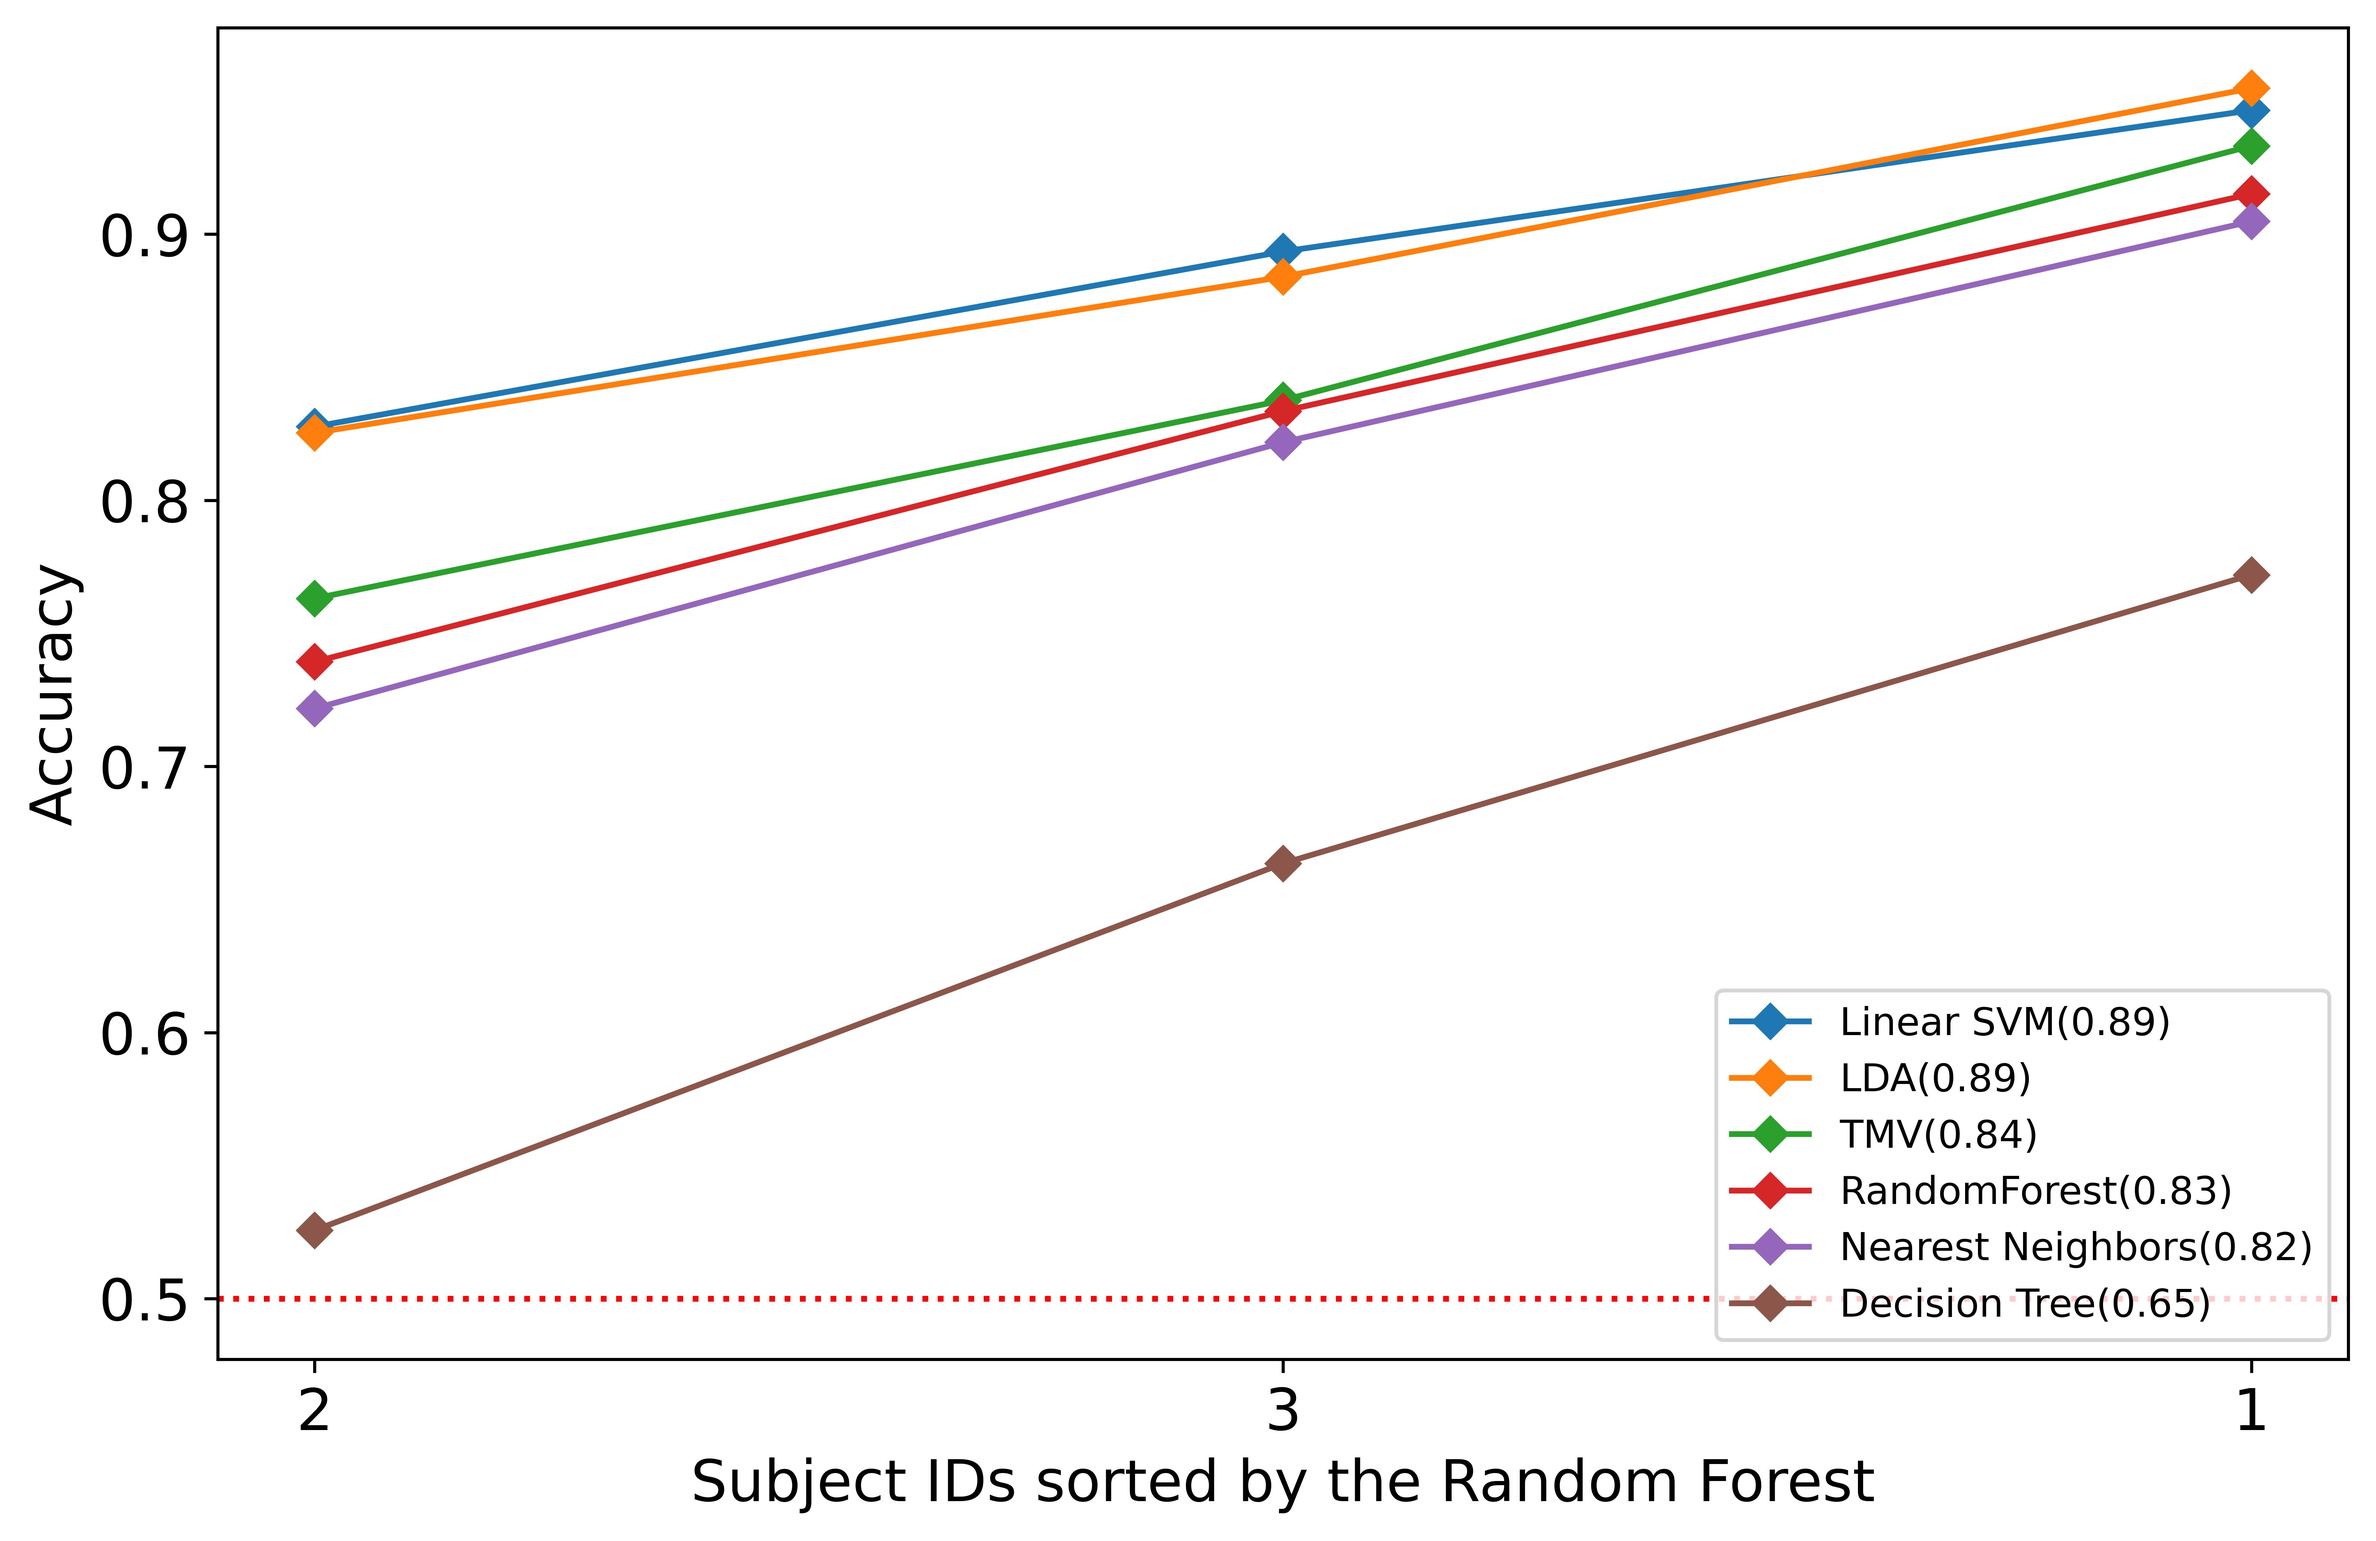
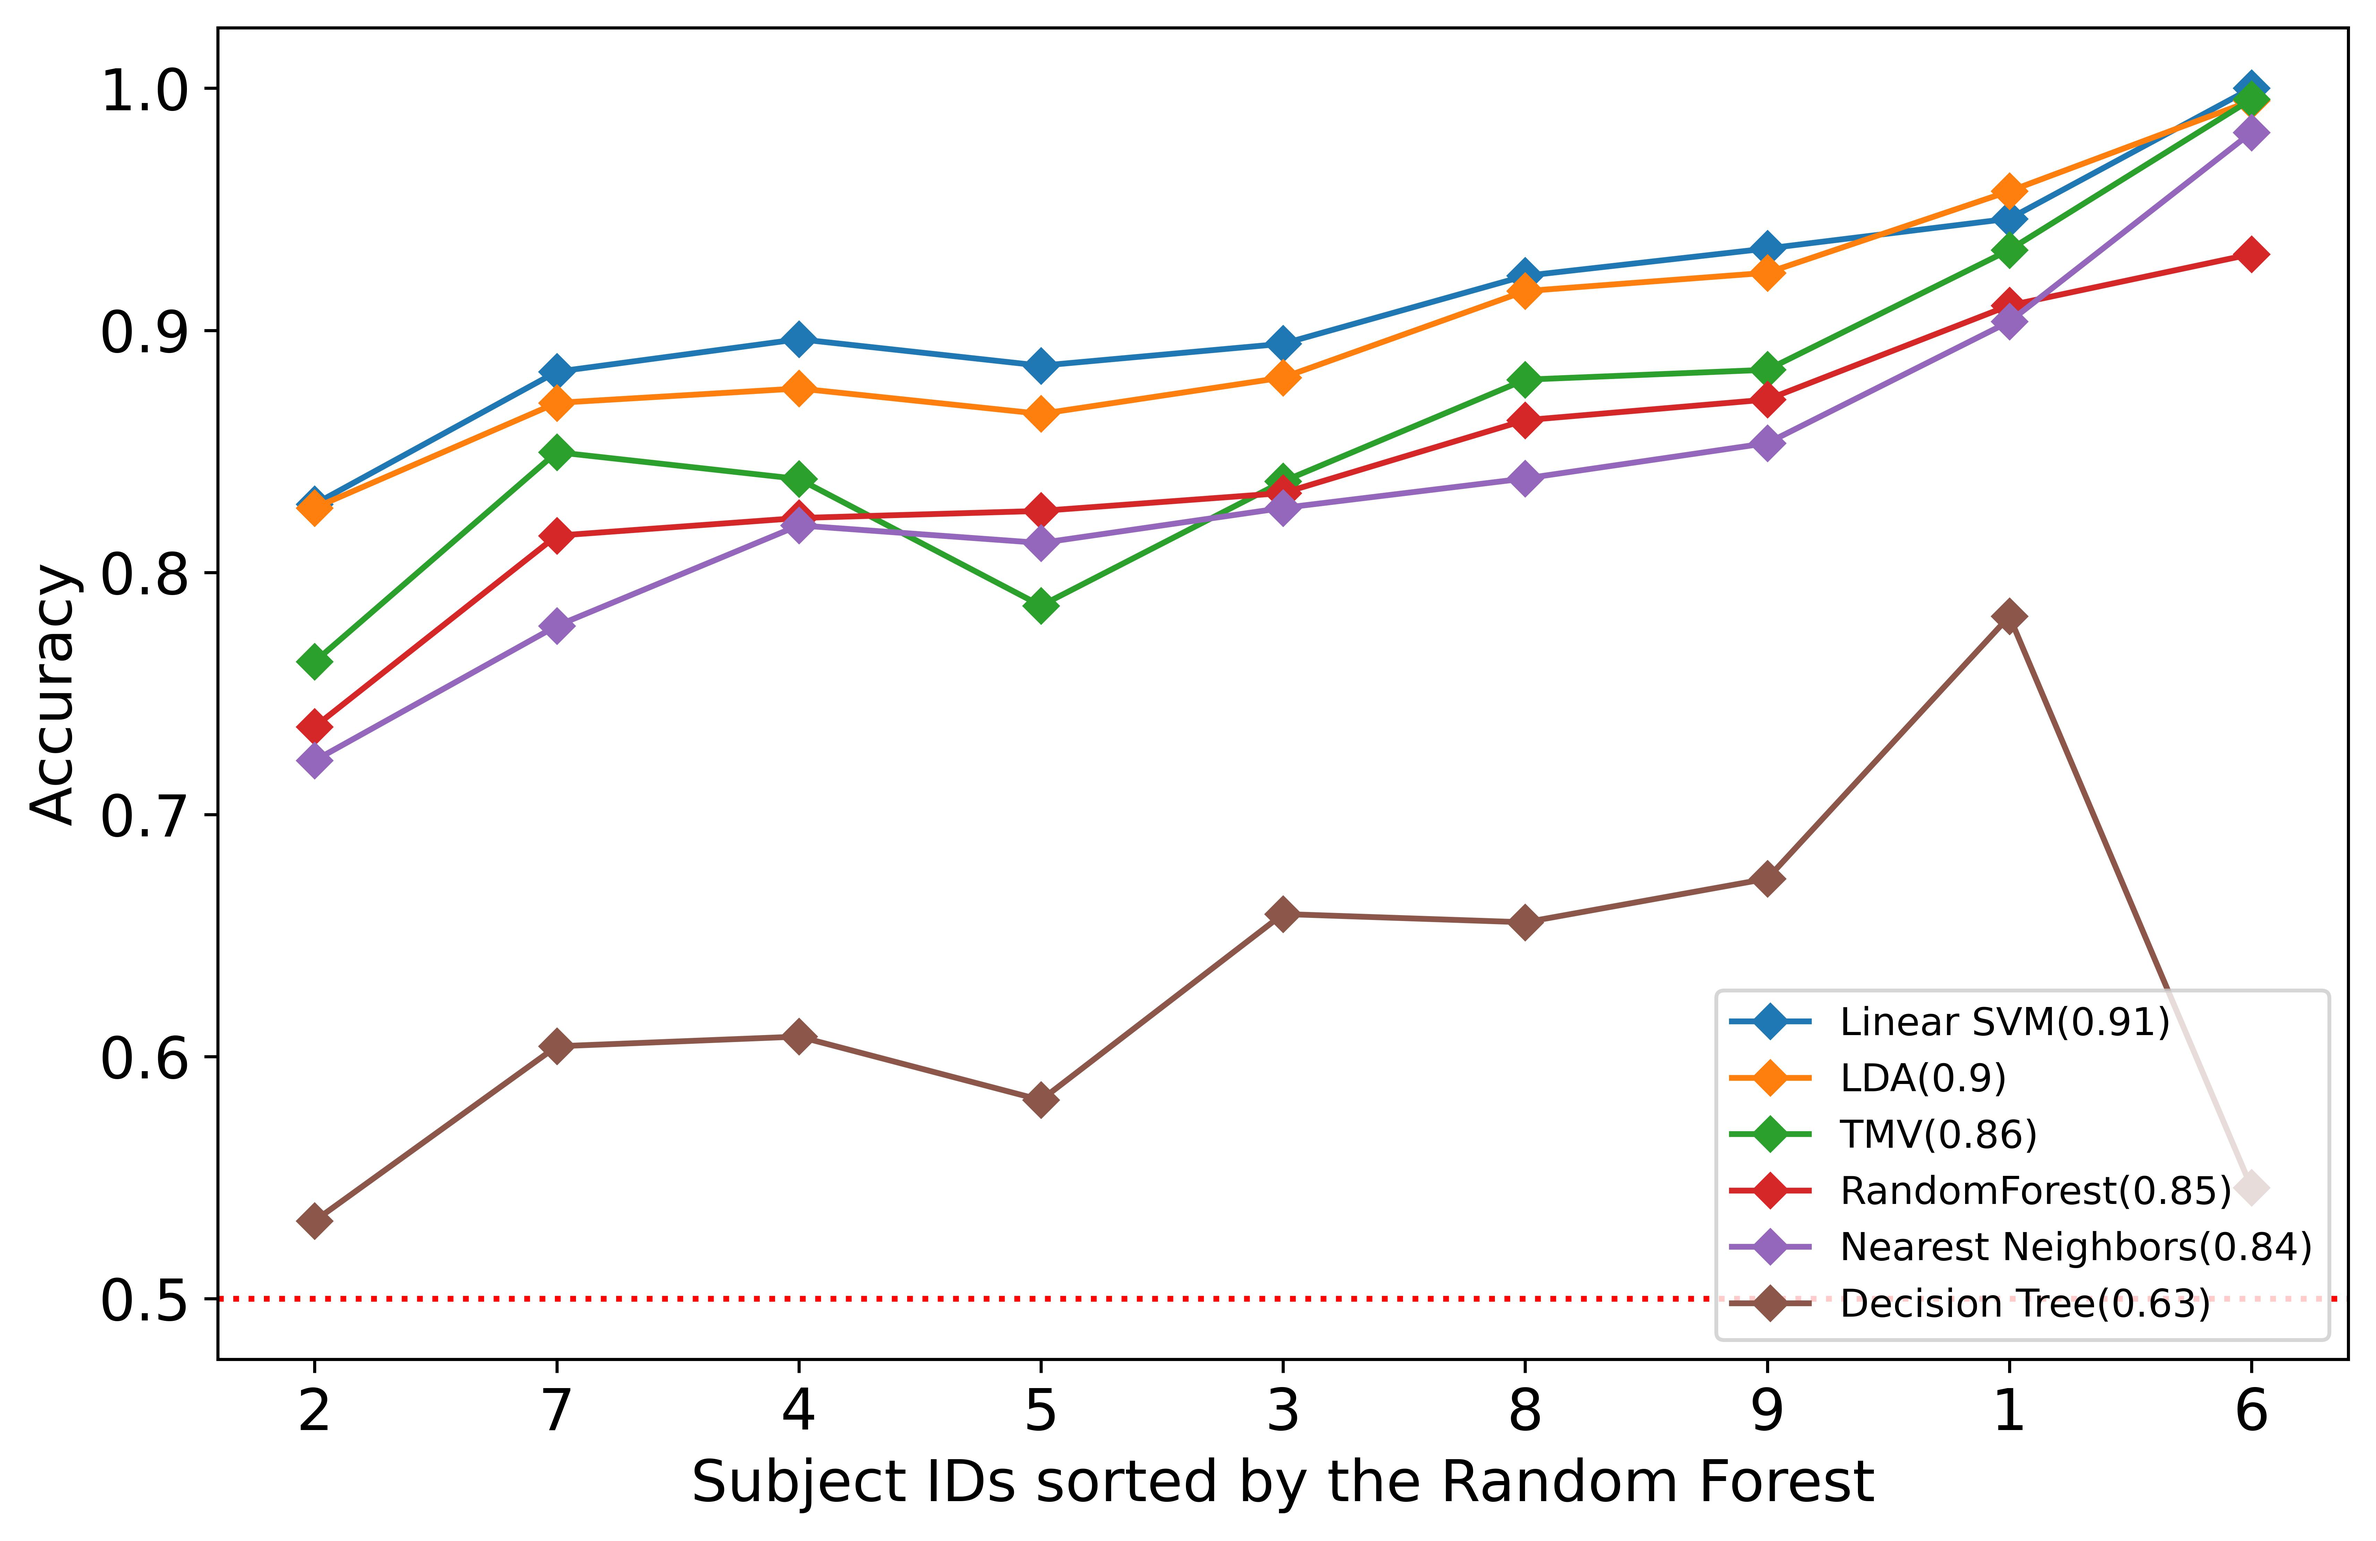
added new results for BCI competition datasets

diff --git a/TMV_BCI_Competition.py b/TMV_BCI_Competition.py
@@ -82,7 +82,7 @@ def calculate_accuracy(y_one : List, y_two : List) -> float:
 
 
 scoring = "accuracy"
-total_subjects = 3
+total_subjects = 9
 
 score_dict = {}
 time_record = {}
@@ -132,9 +132,10 @@ for subject_id in range(1, total_subjects + 1):
         time_elapsed = time_end - time_start
         time_record[subject_id][name] = time_elapsed
 
-        tp_data = {"Average_Accuracy": scores.mean(), "Avg runtime(s)": time_elapsed}
-        df_tp = pd.DataFrame(tp_data, index=[name])
-        df_tp.to_csv("output/" + data_source + "/subject "+str(subject_id)+"_"+name+"_accuracy_time.csv")
+        # Uncomment the following lines if you want to see results for each subject's pre-specified ML algorithms
+        # tp_data = {"Average_Accuracy": scores.mean(), "Avg runtime(s)": time_elapsed}
+        # df_tp = pd.DataFrame(tp_data, index=[name])
+        # df_tp.to_csv("output/" + data_source + "/subject "+str(subject_id)+"_"+name+"_accuracy_time.csv")
 
         print("The average score of " + name + " is", scores.mean(), "with std of", scores.std())
         print("The time spent to run " + name + " is", time_elapsed)
@@ -169,7 +170,7 @@ for subject_id in range(1, total_subjects + 1):
     score_dict[subject_id]["TMV"] = (tmv_accuracy)
     time_record[subject_id]["TMV"] = time_tmv_end - time_tmv_start
 
-    # Uncomment the following line if you want to see results for each subjects
+    # Uncomment the following lines if you want to see results for each subject's TMV result
     # tp_data = {"Average_Accuracy": tmv_accuracy, "Avg runtime(s)": time_tmv_end - time_tmv_start}
     # df_tp = pd.DataFrame(tp_data, index=["TMV"])
     # df_tp.to_csv("output/" + data_source + "/subject " + str(subject_id) + "_TMV_accuracy_time.csv")

diff --git a/README.md b/README.md
@@ -22,18 +22,18 @@ Side node: It took me around 40 - 50 minutes to finish running [analyze_algorith
 
 Run [TMV_EEGEyeNet.ipynb](TMV_EEGEyeNet.ipynb) to execute the TMV algorithm on the EEGEyeNet dataset. You can also decide to run which subjects by adjusting the variable "total_subjects". You can uncomment and comment out the corresponding names and classifiers in the second block to determine what classifiers you want to run. 
 
-The [output/EEGEyeNet](output/EEGEyeNet/) contains example results.
+The [output/EEGEyeNet](output/EEGEyeNet/) contains example results for the first 18 subjects.
 
 Side Note: There are 369 subjects in total. Run time varies based on number of subjects you are going to run.
 
 ## Time Majority Voting Algorithm for BCI Competition
 The first step is to download the dataset from this [google drive](https://drive.google.com/drive/u/0/folders/1H-JAAqDg-2NwOyvTm4l1OuRgp6X0zOpB); the folder is called BCI-Data. You should put this folder in the same directory as your TMV_BCI_Competition.py file. Then, you should create a new folder called "output" and in this folder create another empty folder named "BCI-Data". 
 
-Run [TMV_BCI_Competition.py](TMV_BCI_Competition.py) to execute the TMV algorithm on the BCI competition. You can decide to run which subjects by adjusting the variable "total_subjects"(line 84) and the starting position of the for loop on line 93. Currently, it runs subjects 1 to 5. You can uncomment and comment out the corresponding names and classifiers in the second block to determine what classifiers you want to run. 
+Run [TMV_BCI_Competition.py](TMV_BCI_Competition.py) to execute the TMV algorithm on the BCI competition dataset. You can decide to run which subjects by adjusting the variable "total_subjects" and the starting position of the for loop on line 94. Currently, it runs subjects 1 to 5. You can uncomment and comment out the corresponding names and classifiers in the second block to determine what classifiers you want to run. 
 
 If you want to change the name of your dataset folder, you should change the variable "data_source" (line 23) to the new name. Also, you need to change the name of the folder you created inside the output folder, where the results will be stored, to the new name.
 
-The [output/BCI-Data](output/BCI-Data/) contains example results.
+The [output/BCI-Data](output/BCI-Data/) contains example results for all nine subjects' training datasets.
 
 ## Time Majority Voting Algorithm for TCR and RWT dataset
 
